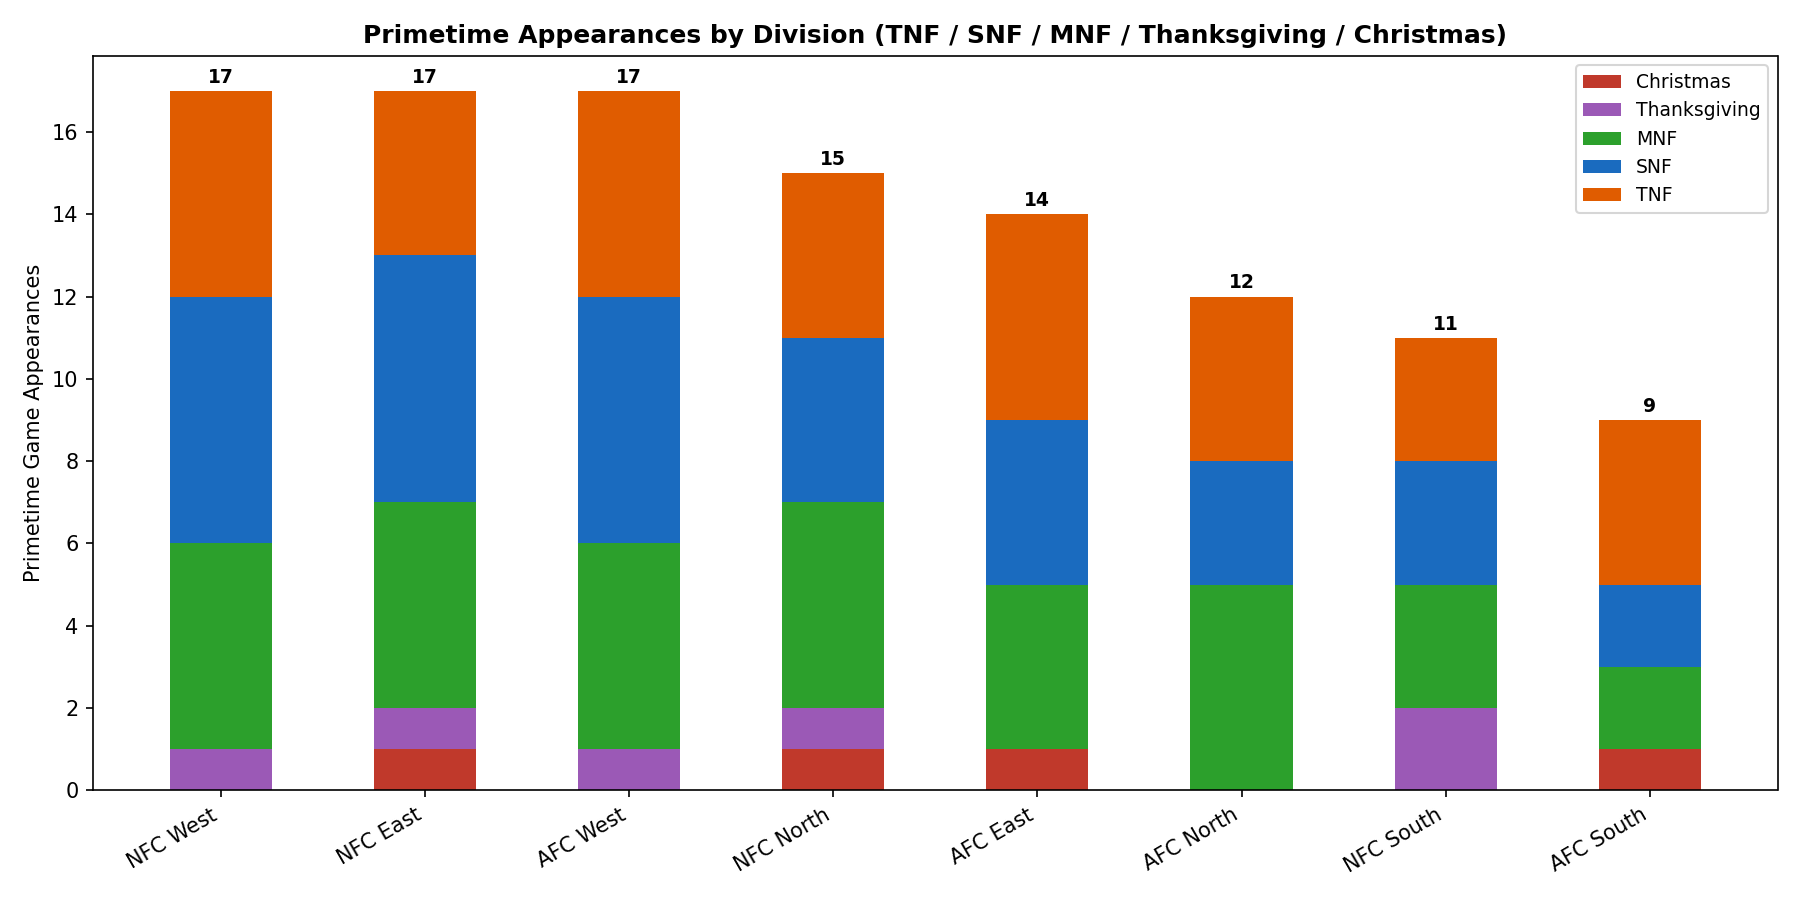
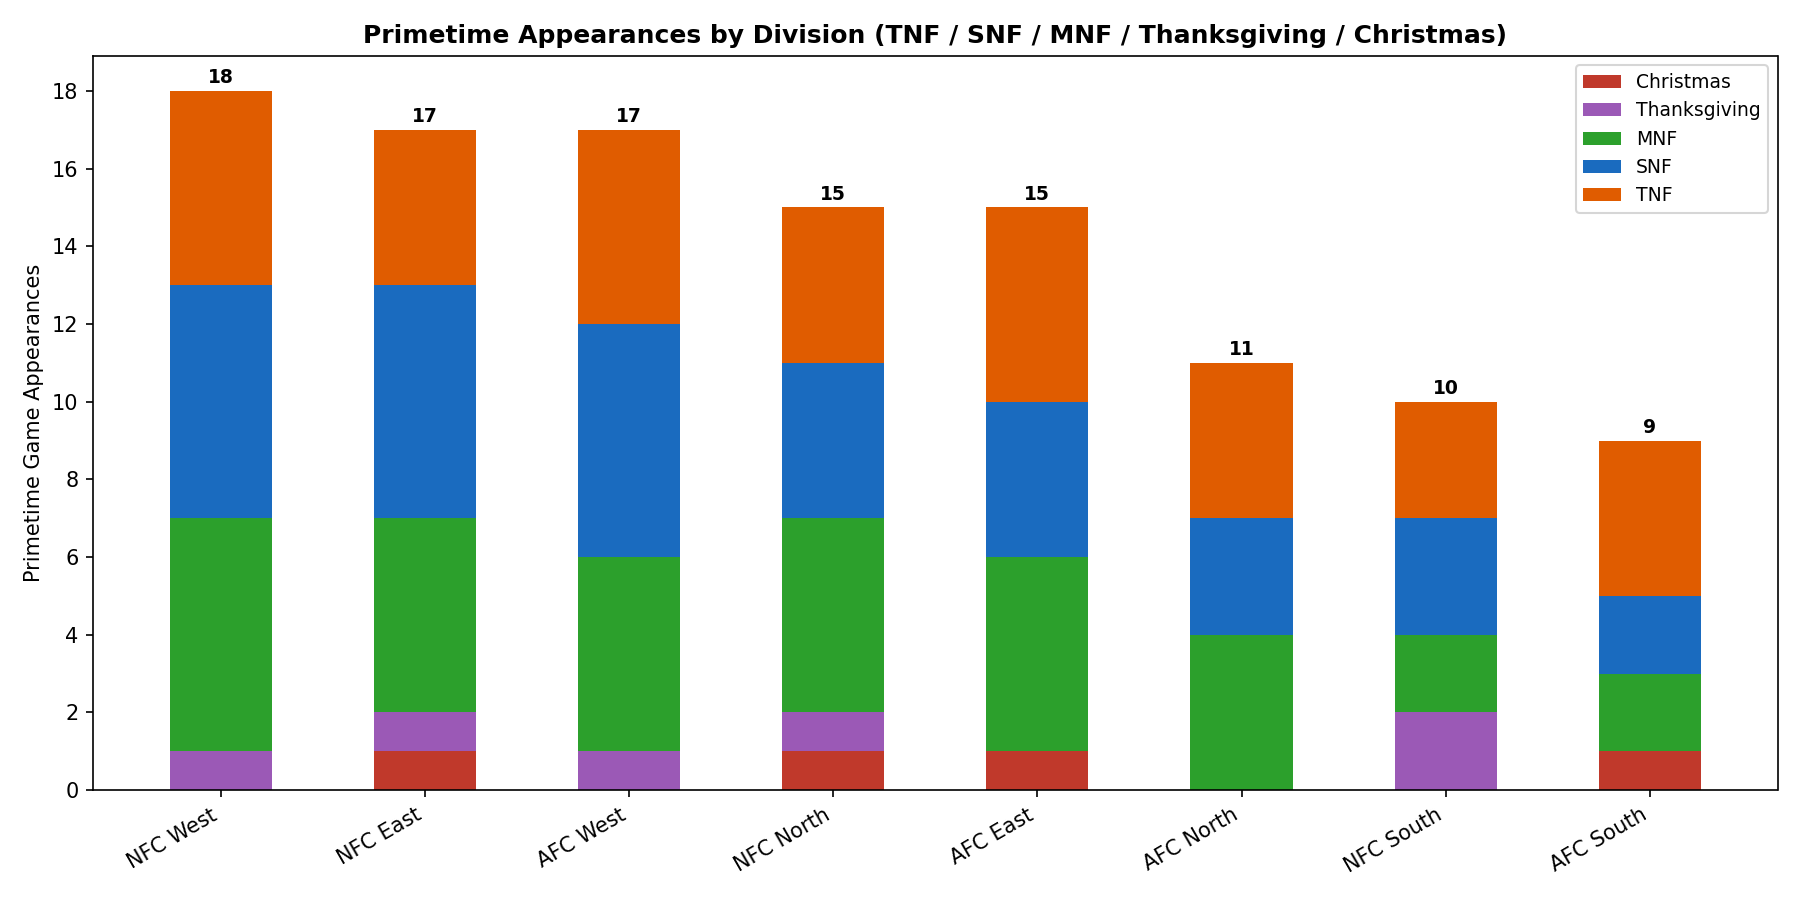
hopefully got the perfect primetime schedule

diff --git a/primetime.html b/primetime.html
@@ -302,9 +302,9 @@
     <div class="week-group">
       <div class="week-label">Week 14</div>
       <div class="game-card tnf">
-        <div class="team-logos"><img src="logos/jacksonville-jaguars.png" alt="Jaguars"><span class="vs-sep">@</span><img src="logos/denver-broncos.png" alt="Broncos"></div>
+        <div class="team-logos"><img src="logos/indianapolis-colts.png" alt="Colts"><span class="vs-sep">@</span><img src="logos/kansas-city-chiefs.png" alt="Chiefs"></div>
         <div class="game-info">
-          <div class="matchup">Jaguars @ Broncos</div>
+          <div class="matchup">Colts @ Chiefs</div>
           <div class="game-meta">1:00 PM ET</div>
           <div class="game-note">Thursday Night Football</div>
         </div>
@@ -726,10 +726,10 @@
     <div class="week-group">
       <div class="week-label">Week 13</div>
       <div class="game-card mnf">
-        <div class="team-logos"><img src="logos/new-orleans-saints.png" alt="Saints"><span class="vs-sep">@</span><img src="logos/cincinnati-bengals.png" alt="Bengals"></div>
+        <div class="team-logos"><img src="logos/new-england-patriots.png" alt="Patriots"><span class="vs-sep">@</span><img src="logos/seattle-seahawks.png" alt="Seahawks"></div>
         <div class="game-info">
-          <div class="matchup">Saints @ Bengals</div>
-          <div class="game-meta">1:00 PM ET</div>
+          <div class="matchup">Patriots @ Seahawks</div>
+          <div class="game-meta">4:25 PM ET</div>
           <div class="game-note">Monday Night Football</div>
         </div>
         <span class="badge mnf">MNF</span>

diff --git a/schedules/indianapolis-colts.html b/schedules/indianapolis-colts.html
@@ -169,9 +169,9 @@
         </tr>
         <tr class="">
           <td>14</td>
-          <td>December 13</td>
+          <td>December 10</td>
           <td class="opponent">at <span class="opp-name">Chiefs</span></td>
-          <td>1:00 PM ET</td>
+          <td>1:00 PM ET (Thursday Night Football)</td>
         </tr>
         <tr class="divisional">
           <td>15</td>

diff --git a/schedules/denver-broncos.html b/schedules/denver-broncos.html
@@ -169,9 +169,9 @@
         </tr>
         <tr class="">
           <td>14</td>
-          <td>December 10</td>
+          <td>December 13</td>
           <td class="opponent"><span class="opp-name">Jaguars</span></td>
-          <td>1:00 PM ET (Thursday Night Football)</td>
+          <td>1:00 PM ET</td>
         </tr>
         <tr class="divisional">
           <td>15</td>

diff --git a/schedules/new-england-patriots.html b/schedules/new-england-patriots.html
@@ -163,9 +163,9 @@
         </tr>
         <tr class="">
           <td>13</td>
-          <td>December 6</td>
+          <td>December 7</td>
           <td class="opponent">at <span class="opp-name">Seahawks</span></td>
-          <td>4:25 PM ET</td>
+          <td>4:25 PM ET (Monday Night Football)</td>
         </tr>
         <tr class="divisional">
           <td>14</td>

diff --git a/schedules/new-orleans-saints.html b/schedules/new-orleans-saints.html
@@ -163,9 +163,9 @@
         </tr>
         <tr class="">
           <td>13</td>
-          <td>December 7</td>
+          <td>December 6</td>
           <td class="opponent">at <span class="opp-name">Bengals</span></td>
-          <td>1:00 PM ET (Monday Night Football)</td>
+          <td>1:00 PM ET</td>
         </tr>
         <tr class="divisional">
           <td>14</td>

diff --git a/schedules/cincinnati-bengals.html b/schedules/cincinnati-bengals.html
@@ -163,9 +163,9 @@
         </tr>
         <tr class="">
           <td>13</td>
-          <td>December 7</td>
+          <td>December 6</td>
           <td class="opponent"><span class="opp-name">Saints</span></td>
-          <td>1:00 PM ET (Monday Night Football)</td>
+          <td>1:00 PM ET</td>
         </tr>
         <tr class="divisional">
           <td>14</td>

diff --git a/schedules/jacksonville-jaguars.html b/schedules/jacksonville-jaguars.html
@@ -169,9 +169,9 @@
         </tr>
         <tr class="">
           <td>14</td>
-          <td>December 10</td>
+          <td>December 13</td>
           <td class="opponent">at <span class="opp-name">Broncos</span></td>
-          <td>1:00 PM ET (Thursday Night Football)</td>
+          <td>1:00 PM ET</td>
         </tr>
         <tr class="">
           <td>15</td>

diff --git a/schedules/kansas-city-chiefs.html b/schedules/kansas-city-chiefs.html
@@ -169,9 +169,9 @@
         </tr>
         <tr class="">
           <td>14</td>
-          <td>December 13</td>
+          <td>December 10</td>
           <td class="opponent"><span class="opp-name">Colts</span></td>
-          <td>1:00 PM ET</td>
+          <td>1:00 PM ET (Thursday Night Football)</td>
         </tr>
         <tr class="">
           <td>15</td>

diff --git a/schedules/seattle-seahawks.html b/schedules/seattle-seahawks.html
@@ -163,9 +163,9 @@
         </tr>
         <tr class="">
           <td>13</td>
-          <td>December 6</td>
+          <td>December 7</td>
           <td class="opponent"><span class="opp-name">Patriots</span></td>
-          <td>4:25 PM ET</td>
+          <td>4:25 PM ET (Monday Night Football)</td>
         </tr>
         <tr class="">
           <td>14</td>
